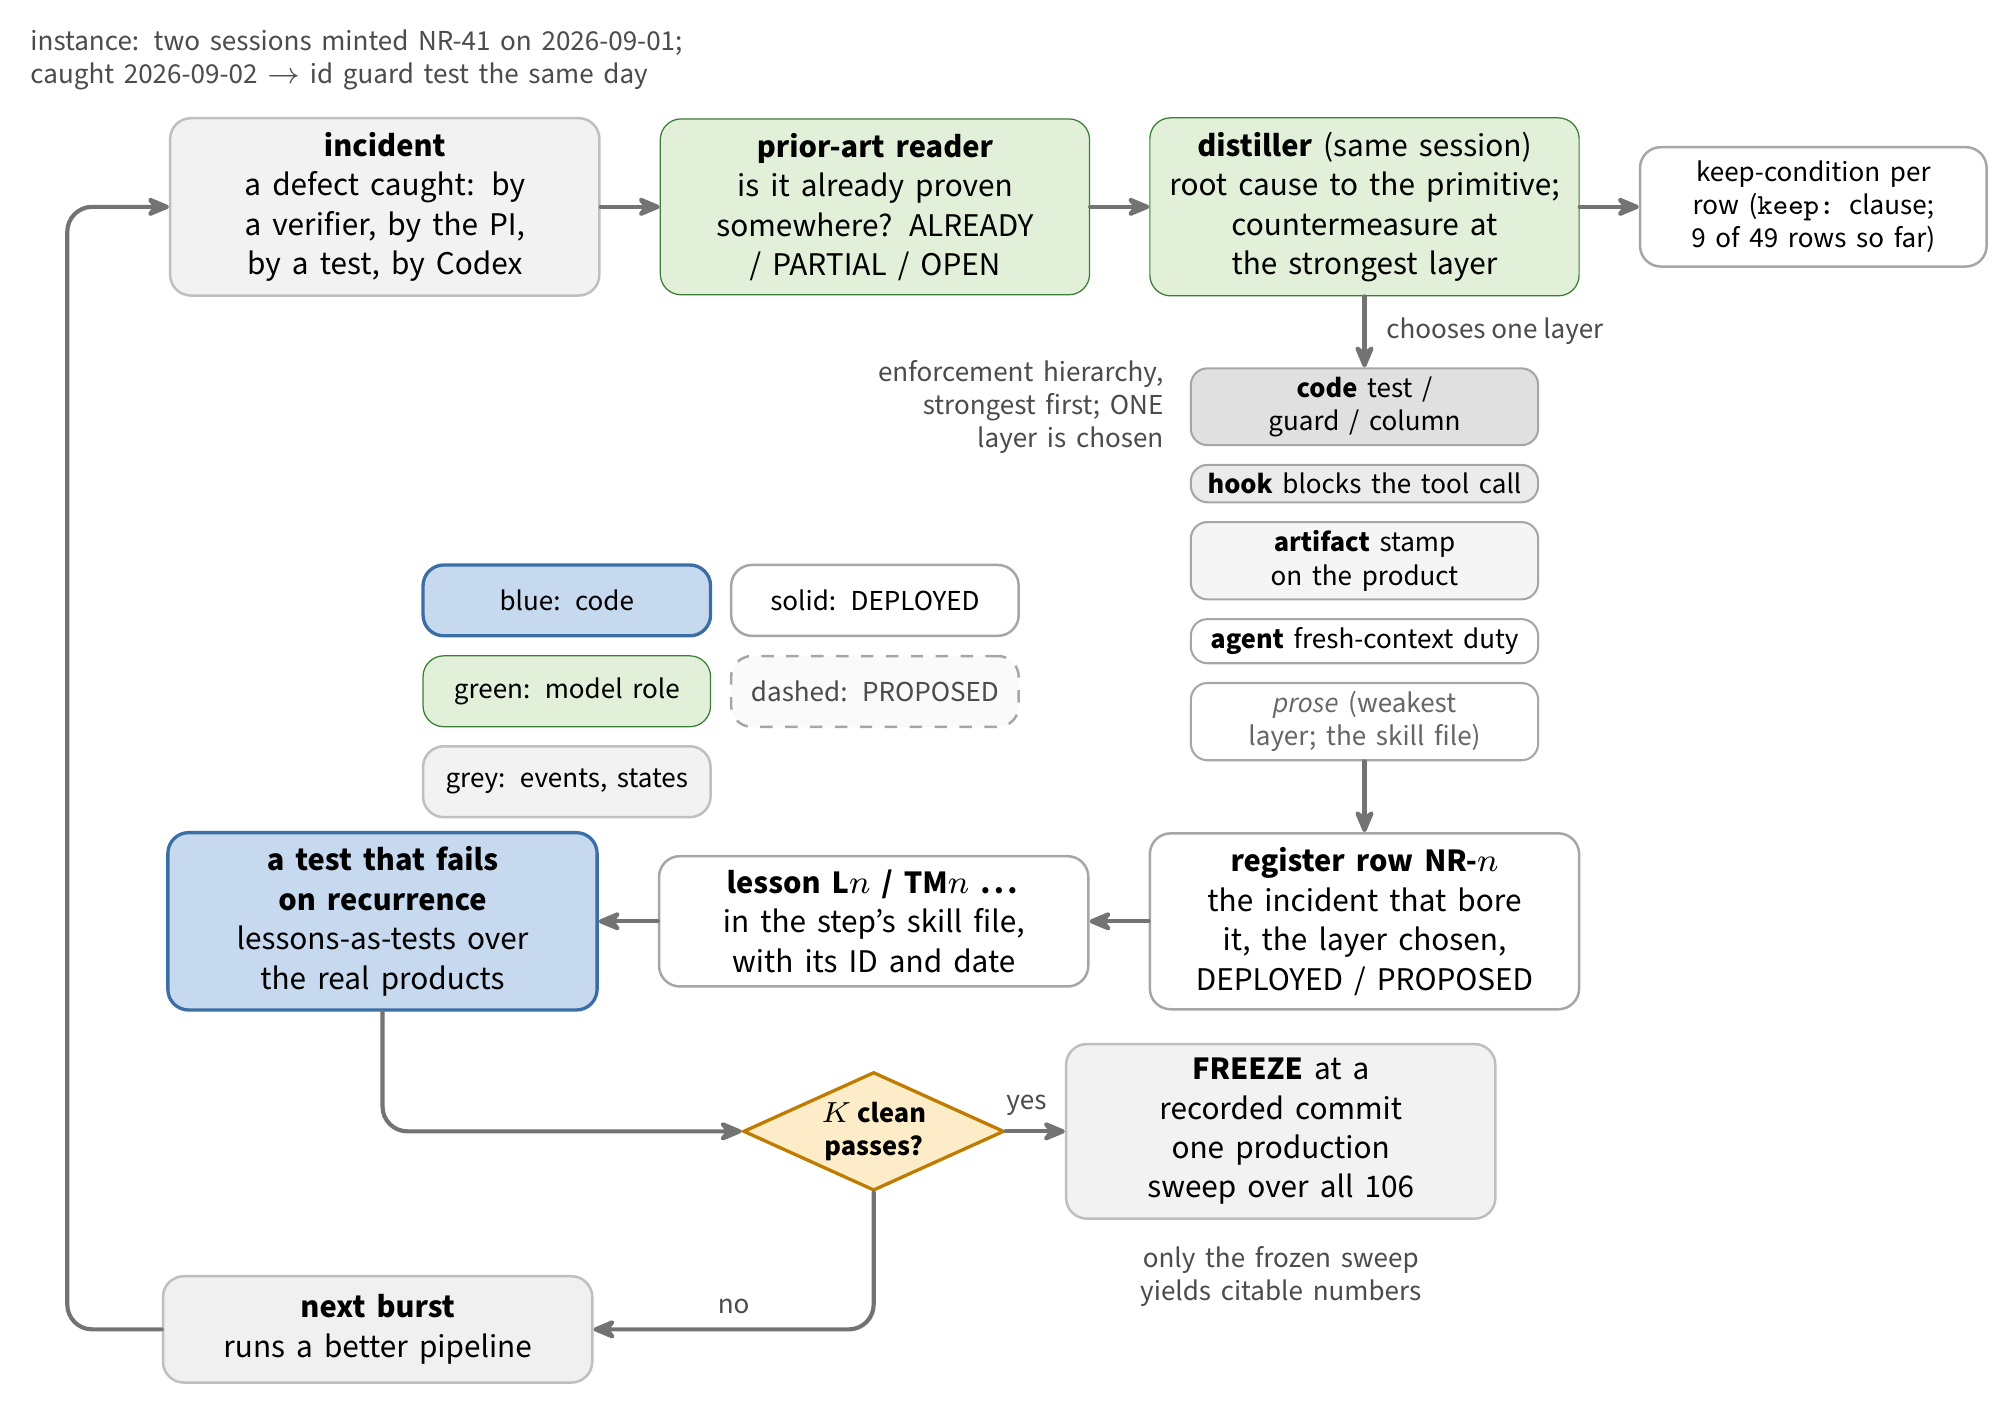
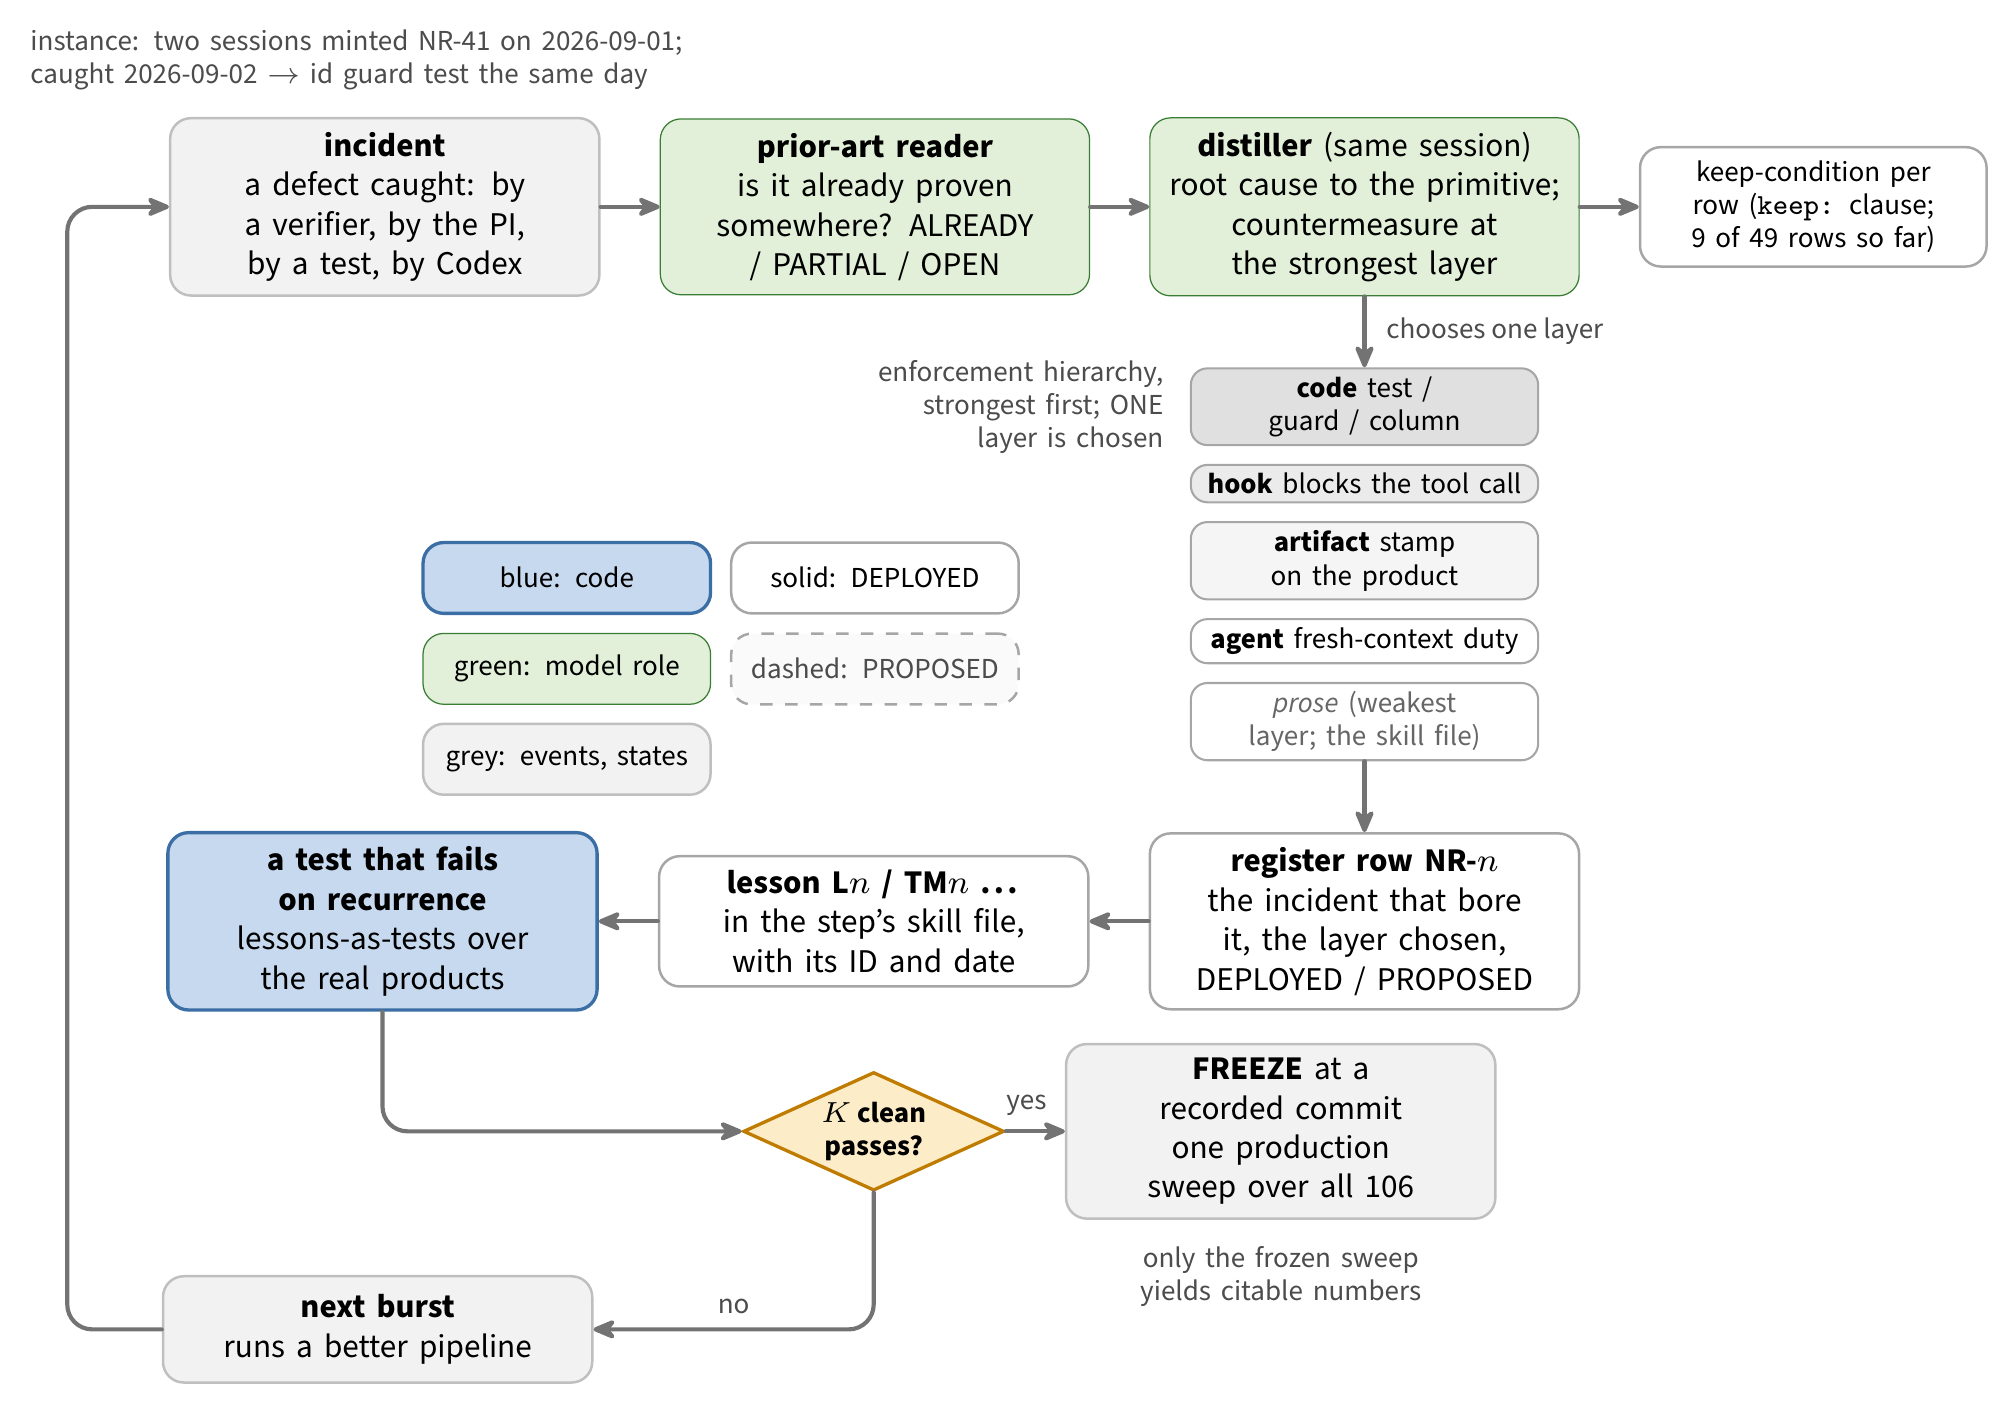
F4 style r2: legend re-lifted for the Source Sans wrap (register box 4 lines), event fills unified; ledger: style r1 FAIL
Claude-Session: https://claude.ai/code/session_014ZKU13JNR6E9CyYseiK5df

Changed region(s): [[0.1855, 0.3683, 0.4948, 0.5832]]

diff --git a/paper_agentic/figures/fig_F4_steering_loop.tex b/paper_agentic/figures/fig_F4_steering_loop.tex
@@ -45,7 +45,7 @@
 
 \node[dec, below=7mm of lesson] (k) {$K$ clean\\passes?};
 \node[event, right=of k] (freeze) {\textbf{FREEZE} at a recorded commit\\one production sweep over all 106};
-\node[event, below=7mm of k, fill=black!6, xshift=-42mm] (next) {\textbf{next burst}\\runs a better pipeline};
+\node[event, below=7mm of k, xshift=-42mm] (next) {\textbf{next burst}\\runs a better pipeline};
 
 \node[box, right=of dist, text width=27mm, font=\sffamily\scriptsize] (keep) {keep-condition per row (\texttt{keep:} clause; 9 of 49 rows so far)};
 
@@ -61,7 +61,7 @@
 \draw[arr] (next.west) -- ++(-8mm,0) |- (inc.west);
 \draw[arr] (dist.east) -- (keep.west);
 \node[lab, below=1mm of freeze, text width=40mm, align=center] {only the frozen sweep yields citable numbers};
-\node[box, text width=22mm, font=\sffamily\scriptsize, minimum height=6mm] (leg1) at ($(prior.south |- L4.north)+(0,1.5mm)$) {solid: DEPLOYED};
+\node[box, text width=22mm, font=\sffamily\scriptsize, minimum height=6mm] (leg1) at ($(prior.south |- L4.north)+(0,3.4mm)$) {solid: DEPLOYED};   % +3.4 mm: Source Sans wraps the register box in 4 lines (was 5), lifting the bottom row; keeps >= 2.5 mm above the test box
 \node[code, text width=22mm, font=\sffamily\scriptsize, minimum height=6mm, left=1.5mm of leg1] (leg3) {blue: code};
 \node[agent, text width=22mm, font=\sffamily\scriptsize, minimum height=6mm, below=1.5mm of leg3] (leg4) {green: model role};
 \node[event, text width=22mm, font=\sffamily\scriptsize, minimum height=6mm, below=1.5mm of leg4] (leg5) {grey: events, states};

diff --git a/paper_agentic/figures/GATE_LEDGER.md b/paper_agentic/figures/GATE_LEDGER.md
@@ -1,6 +1,6 @@
 # Paper v3 diagram gate ledger — TRACKED COPY
 
-Copied from `results/campaign/agentfigs/VISION_QC.md` (gitignored under results/*) at 2026-09-03T21:03:52Z, so the approval record of the manuscript's diagrams is commit-recoverable (Codex supervisor review D4, 2026-09-02). The results/ file remains the ledger the no-ship hook reads; this copy is refreshed by the building session whenever a diagram row changes.
+Copied from `results/campaign/agentfigs/VISION_QC.md` (gitignored under results/*) at 2026-09-03T21:04:39Z, so the approval record of the manuscript's diagrams is commit-recoverable (Codex supervisor review D4, 2026-09-02). The results/ file remains the ledger the no-ship hook reads; this copy is refreshed by the building session whenever a diagram row changes.
 
 ## Paper v3 diagrams — gate ledger appended 2026-09-03T03:32:12Z by the building session (verdicts by fresh-context figure-verifier agents; producer = building session)
 
@@ -70,6 +70,7 @@ Tie-break (F1 colour gate, 2026-09-03): a DOCUMENT the model reads (protocol, gu
 |---|---|---|---|---|---|
 | F1 | style r1 | (see row above for shas) | | | FAIL — `rounded corners=5pt` on the arrow style overshot three short stubs (loop return head drawn inside the model pointing down; loop start hook inside the model; stamp arrowhead inside the records box pointing away); undisclosed cosmetic deltas: job fill black!7, hatch black!9 / agentline!20, inner frame agentline!80, label radii 3 pt |
[2 lines of base64/hex data omitted]
+| F4 | style r1 | (shas in the row above) | | | FAIL — Source Sans wrapped the register box in 4 lines (was 5), the bottom row rose 1.5 mm and the ladder-anchored legend ended 1.10 mm above the test box (rule ≥ 2.5 mm); undisclosed deltas: event fill black!5 vs next-burst black!6, dashed legend sample frame lightened |
[3 lines of base64/hex data omitted]
